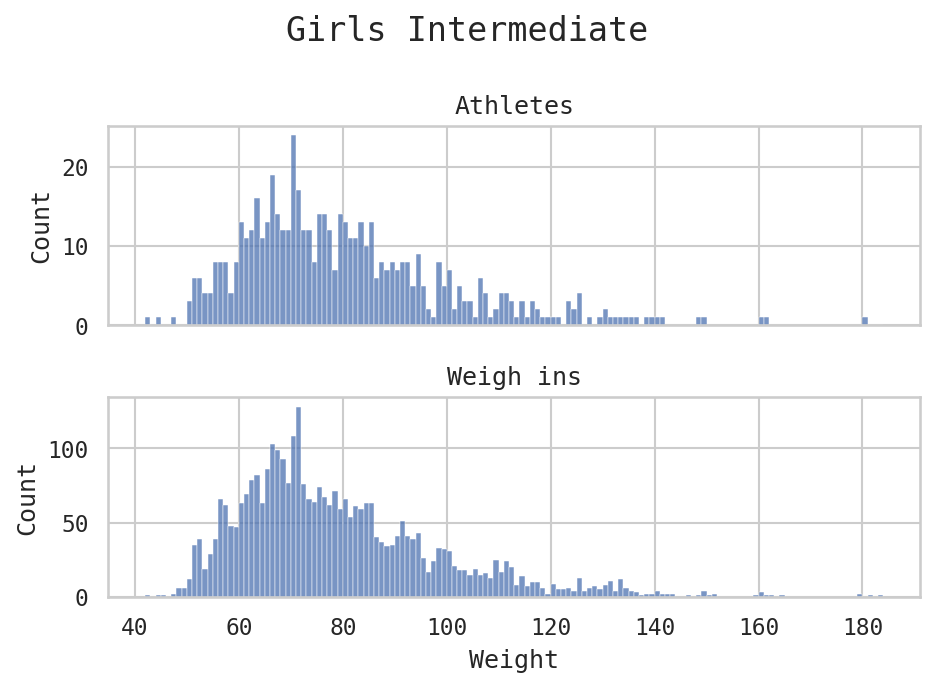
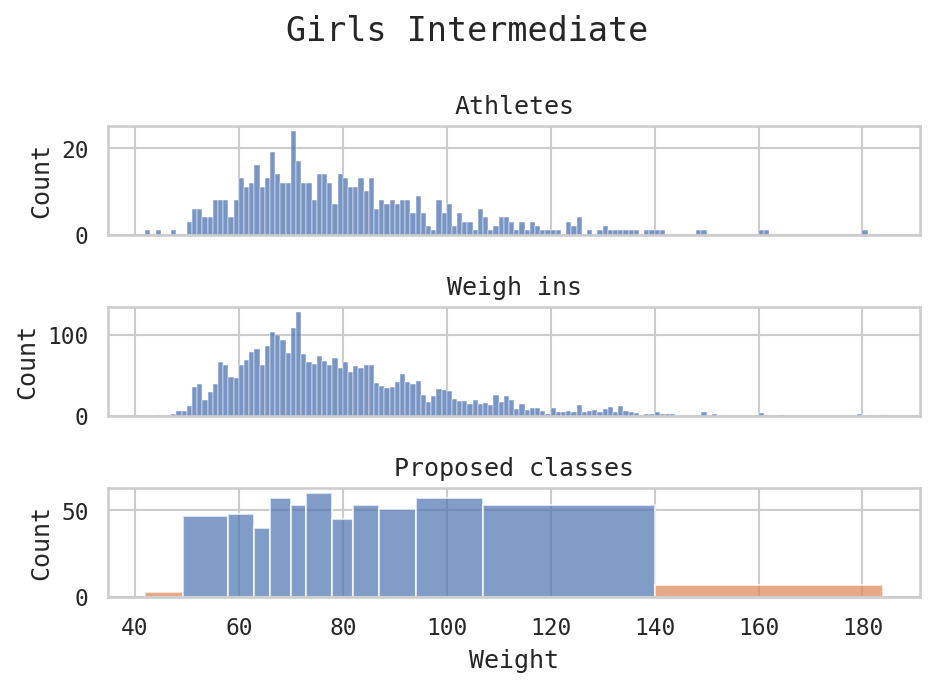
Add a subplot for the proposed classes

diff --git a/extract_weigh_ins.py b/extract_weigh_ins.py
@@ -298,8 +298,9 @@ def _plot_histograms(
     division_display: str,
     athlete_weights: list[float],
     weigh_ins: list[float],
+    weight_class_bins: list[int],
 ) -> None:
-    if not athlete_weights or not weigh_ins:
+    if not athlete_weights or not weigh_ins or not weight_class_bins:
         raise NotImplementedError
 
     # Determine bin range
@@ -307,16 +308,56 @@ def _plot_histograms(
     max_val = math.ceil(max(athlete_weights + weigh_ins))
     bins = list(range(min_val, max_val + 1))
 
-    fig, axes = plt.subplots(2, 1, sharex=True)
+    if weight_class_bins[-1] < max_val:
+        weight_class_bins.append(max_val)
+
+    lowest_weight = weight_class_bins[0]
+    too_low = lowest_weight * (1 - _TOO_LIGHT_FRACTION)
+    weight_class_bins = [min_val, too_low] + weight_class_bins
+
+    fig, axes = plt.subplots(3, 1, sharex=True)
 
     sns.histplot(athlete_weights, bins=bins, ax=axes[0])
     axes[0].set_title("Athletes")
     sns.histplot(weigh_ins, bins=bins, ax=axes[1])
     axes[1].set_title("Weigh ins")
 
-    axes[1].set_xlabel("Weight")
+    # proposal_centers: list[float] = [min_val + 1.5, min_val + 21.5]
+    # proposal_counts: list[int] = [100, 50]
+    # proposal_widths: list[int] = [3, 37]
+    proposal_centers: list[float] = []
+    proposal_widths: list[int] = []
+    proposal_counts: list[int] = []
+    for lower_bound, upper_bound in zip(
+        weight_class_bins[:-1], weight_class_bins[1:], strict=True
+    ):
+        proposal_centers.append((lower_bound + upper_bound) * 0.5)
+        proposal_widths.append(upper_bound - lower_bound)
+        if upper_bound == max_val:
+            upper_bound = upper_bound + 1
+        bin_count = sum(
+            1 for weight in athlete_weights if lower_bound <= weight < upper_bound
+        )
+        proposal_counts.append(bin_count)
+
+    proposal_colors = ["C0"] * len(proposal_counts)
+    proposal_colors[0] = "C1"
+    proposal_colors[-1] = "C1"
+
+    axes[2].bar(
+        proposal_centers,
+        proposal_counts,
+        width=proposal_widths,
+        color=proposal_colors,
+        align="center",
+        alpha=0.7,
+    )
+    axes[2].set_title("Proposed classes")
+
+    axes[2].set_xlabel("Weight")
     axes[0].set_ylabel("Count")
     axes[1].set_ylabel("Count")
+    axes[2].set_ylabel("Count")
 
     fig.suptitle(division_display, fontsize=16, y=0.95)
     plt.tight_layout(rect=[0, 0, 1, 0.96])
@@ -419,10 +460,12 @@ def main() -> None:
     lines.extend(["", "## Computed weight classes", ""])
 
     one_weight = _median_from_aggregate(by_division)
+    proposals: dict[bracket_util.Division, list[tuple[int, int]]] = {}
     for division in _SORTED_DIVISIONS:
         weights = one_weight[division]
         desired_count = _DESIRED_COUNTS[division]
         proposed_weight_classes = _create_weight_classes(weights, desired_count)
+        proposals[division] = proposed_weight_classes
 
         actual_classes = bracket_util.weights_for_division(division)
         actual_weight_classes = _explain_weight_classes(weights, actual_classes)
@@ -484,9 +527,23 @@ def main() -> None:
         weigh_in_map = by_division[division]
         division_weigh_ins = list(itertools.chain.from_iterable(weigh_in_map.values()))
 
+        proposed_weight_classes = proposals[division]
+        weight_class_bins: list[int] = []
+        for proposed_weight, _ in proposed_weight_classes:
+            if proposed_weight in (_TOO_LIGHT, _TOO_HEAVY):
+                continue
+
+            weight_class_bins.append(proposed_weight)
+
         division_str = projection.display_division(division)
         filename = _HERE / "_images" / f"weights_histogram_{division}.png"
-        _plot_histograms(filename, division_str, athlete_weights, division_weigh_ins)
+        _plot_histograms(
+            filename,
+            division_str,
+            athlete_weights,
+            division_weigh_ins,
+            weight_class_bins,
+        )
 
 
 if __name__ == "__main__":
